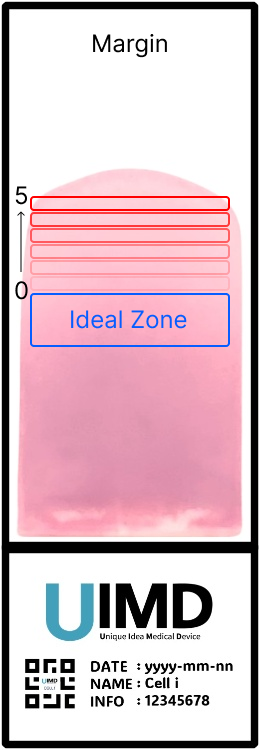
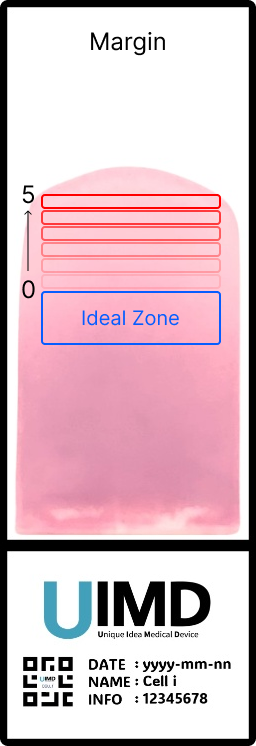
0.2.58v_(Cell Image Analyzed 튜토리얼 이미지 추가 및 CSS 수정)

diff --git a/src/views/setting/analysisDatabase/component/cellImageAnalyzed.vue b/src/views/setting/analysisDatabase/component/cellImageAnalyzed.vue
@@ -14,7 +14,7 @@
     <p class="loadingTextLogin">Loading...</p>
   </div>
     <div class="settingCellImgAnalyzedContainer">
-        <table class="settingTable">
+      <table class="settingTable">
         <tbody>
         <tr v-if="viewerCheck !== 'viewer'">
           <th>Analysis Type</th>
@@ -24,7 +24,6 @@
             </select>
           </td>
         </tr>
-        <!--Common analysis values-->
 
         <tr v-if="viewerCheck !== 'viewer'">
           <!-- WBC diff analysis values -->
@@ -69,11 +68,11 @@
                 @mouseenter="() => informationFontHover('edgeShotType', 'hover')"
                 @mouseleave="informationFontHover('edgeShotType', 'leave')"
             />
-            <div v-show="showEdgeShotTypeInfo" class="tutorial-edgeShotType-container">
-              <img :src="smearTop" width="140" />
-              <img :src="smearTopLowPower" width="140" />
-              <img :src="smearTopHighPower" width="140" />
-            </div>
+            <Transition>
+              <div v-if="showEdgeShotTypeInfo" class="tutorial-edgeShotType-container">
+                <img :src="smearTop" width="400" />
+              </div>
+            </Transition>
           </th>
           <td>
             <select v-model='edgeShotType'>
@@ -100,9 +99,11 @@
                 @mouseenter="() => informationFontHover('positionMargin', 'hover')"
                 @mouseleave="informationFontHover('positionMargin', 'leave')"
             />
-            <div v-show="showPositionMarginTutorialImg" class="tutorial-positionMargin-container">
-              <img :src="commonPositionMargin" width="140" />
-            </div>
+            <Transition>
+              <div v-show="showPositionMarginTutorialImg" class="tutorial-positionMargin-container">
+                <img :src="commonPositionMargin" width="140" />
+              </div>
+            </Transition>
           </th>
           <th>Wbc Position Margin</th>
           <td>
@@ -185,8 +186,8 @@
 
       <table class="settingTable auto">
         <colgroup>
-          <col width="90">
-          <col width="10">
+          <col width="70">
+          <col width="30">
         </colgroup>
         <tbody>
         <tr>
@@ -349,7 +350,6 @@ import {
 } from "@/common/defines/constants/settings";
 import Alert from "@/components/commonUi/Alert.vue";
 import {messages} from "@/common/defines/constants/constantMessageText";
-import ImageTooltip from "@/components/commonUi/ImageTooltip.vue";
 import {
   backUpDateApi,
   downloadPossibleApi,
@@ -363,8 +363,6 @@ import {useRouter} from "vue-router";
 import ConfirmThreeBtn from "@/components/commonUi/ConfirmThreeBtn.vue";
 import commonPositionMargin from "@/assets/images/commonMargin.png";
 import smearTop from "@/assets/images/smearTop.png";
-import smearTopLowPower from "@/assets/images/smearTopLowPower.png";
-import smearTopHighPower from "@/assets/images/smearTopHighPower.png";
 
 
 const instance = getCurrentInstance();

diff --git a/src/assets/css/layout.css b/src/assets/css/layout.css
@@ -1,3 +1,12 @@
+.v-enter-active,
+.v-leave-active {
+    transition: opacity 0.2s ease;
+}
+
+.v-enter-from,
+.v-leave-to {
+    opacity: 0;
+}
 
 .mt10 {
     margin-top: 10px;
@@ -828,7 +837,7 @@ ul.customClass li {
 }
 
 table.settingTable {
-    width: 80%;
+    width: 90%;
     text-align: left;
     margin: auto;
 }
@@ -5127,6 +5136,11 @@ progress::-moz-progress-bar {
     left: 140px;
     display: flex;
     z-index: 12;
+    background-color: var(--main-gray-color);
+    padding: 4px;
+    border-radius: 4px;
+    box-shadow: 4px 4px 2px rgba(0, 0, 0, 0.5);
+
 }
 
 .tutorial-positionMargin-container {
@@ -5134,6 +5148,11 @@ progress::-moz-progress-bar {
     top: 0;
     left: 90px;
     z-index: 10;
+    background-color: var(--main-gray-color);
+    padding: 4px;
+    border-radius: 4px;
+    box-shadow: 4px 4px 2px rgba(0, 0, 0, 0.5);
+
 }
 
 

diff --git a/public/config.js b/public/config.js
@@ -3,9 +3,9 @@ window.MAIN_API_IP = 'http://192.168.0.131:80/api'; // MultiViewer - 'http://192
 window.MAIN_API = 'http://192.168.0.131:80/api'; // MultiViewer - 'http://192.168.0.100:80/api',   Main PC Only - 'http://127.0.0.1:3002'
 window.MAIN_WEBSOCKET_IP = 'http://192.168.0.131:3002';  // MultiViewer - 'http://192.168.0.100:3002', Main PC Only - 'http://127.0.0.1:3002'
 window.PROJECT_TYPE='pb';  // pb or bm
-window.PROJECT_VERSION='2.00.73';
+window.PROJECT_VERSION='2.00.74';
 window.WEB_BACKEND_VERSION='0.0.83v';
-window.WEB_FRONTEND_VERSION='0.2.57v';
-window.MACHINE_VERSION='12a';  // 12a or 100a
+window.WEB_FRONTEND_VERSION='0.2.58v';
+window.MACHINE_VERSION='100a';  // 12a or 100a
 window.FORCE_VIEWER = 'main'; // main or viewer
 window.PORT = '8080';

diff --git a/src/common/defines/constants/constantMessageText.ts b/src/common/defines/constants/constantMessageText.ts
@@ -443,7 +443,7 @@ export  const messages: Messages = {
     SETTING_INFO_DOWNLOAD_EN: '',
     SETTING_INFO_DOWNLOAD_KO: '다운로드 받을 날짜 선택 & copy: 다른 컴퓨터로 이동시킬때 사용(데이터 복사)',
     SETTING_INFO_KEEP_PAGE_EN: 'Keep page when moving in Database detail page by up, down arrows',
-    SETTING_INFO_KEEP_PAGE_KO: '데이터베이스 상세 페이지에서 좌측 하단 위, 아래 화살표를 사용하여 검체 이동할 때 탭 유지',
+    SETTING_INFO_KEEP_PAGE_KO: '데이터베이스 상세 페이지에서 검체 이동 시 보고 있는 탭 유지',
     SETTING_INFO_ALARM_TIME_EN: '',
     SETTING_INFO_ALARM_TIME_KO: '알람 켜기/끄기 & 타이머(초) 선택',
     SETTING_INFO_NS_NB_INTEGRATION_EN: '',

diff --git a/src/assets/css/color.css b/src/assets/css/color.css
@@ -46,6 +46,7 @@
     --gray-bg-14-color: #bde4ff;
     --gray-bg-16-color: #4D4F5C;
     --gray-bg-17-color: #cfcccc;
+    --main-gray-color: #f0f0f0;
 
     --red-bg-0-color: #ff003b;
     --red-bg-1-color: #f8d7da;
